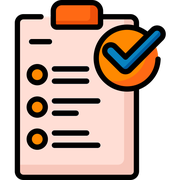
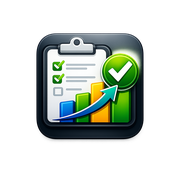
杂项：替换 App 图标为 project-feedicon2（1024×1024）

diff --git a/public/sw.js b/public/sw.js
@@ -1,4 +1,4 @@
-// projectfeed Service Worker · build 2026-04-24 v1.6
+// projectfeed Service Worker · build 2026-04-24 v1.6.1 (icon update)
 // Strategy:
 //   - HTML → network-first (always fresh, fallback to cache if offline)
 //   - JS / CSS → network-first (PWA iteration phase — never stuck on stale code)
